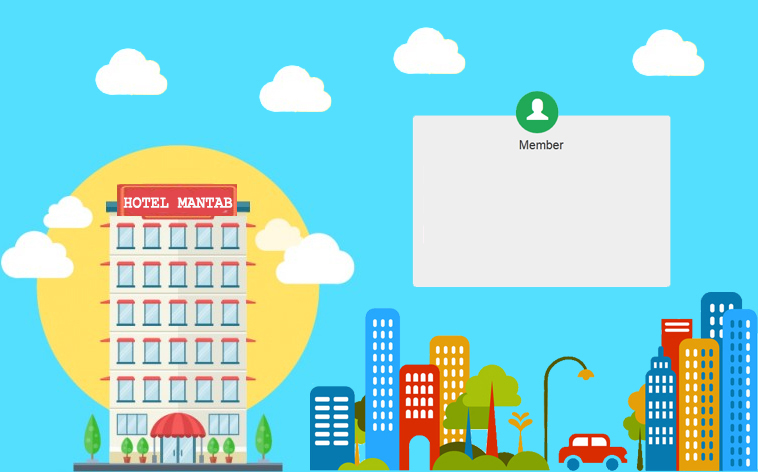
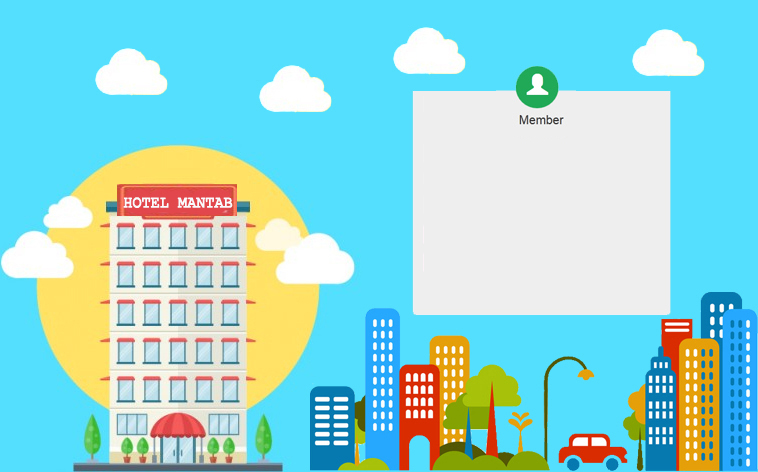
penambahan lama bermalam di check in

Changed region(s): [[0.5462, 0.1186, 0.9103, 0.3263], [0.5462, 0.5932, 0.9103, 0.6822]]

diff --git a/Hotel_FinalProject/src/Hotel/panel_new.java b/Hotel_FinalProject/src/Hotel/panel_new.java
@@ -33,6 +33,9 @@ public class panel_new extends javax.swing.JFrame {
     private void initComponents() {
         java.awt.GridBagConstraints gridBagConstraints;
 
+        jLabel2_hari = new javax.swing.JLabel();
+        textfield_lama_menginap_in = new javax.swing.JTextField();
+        label_lamabermalam = new javax.swing.JLabel();
         label_nama = new javax.swing.JLabel();
         label_nik = new javax.swing.JLabel();
         label_tempat_lahir = new javax.swing.JLabel();
@@ -52,11 +55,38 @@ public class panel_new extends javax.swing.JFrame {
 
         getContentPane().setLayout(new java.awt.GridBagLayout());
 
+        jLabel2_hari.setText("Hari");
+        gridBagConstraints = new java.awt.GridBagConstraints();
+        gridBagConstraints.gridx = 6;
+        gridBagConstraints.gridy = 10;
+        gridBagConstraints.gridwidth = 3;
+        gridBagConstraints.ipadx = 11;
+        gridBagConstraints.ipady = 6;
+        gridBagConstraints.anchor = java.awt.GridBagConstraints.NORTHWEST;
+        gridBagConstraints.insets = new java.awt.Insets(6, 10, 0, 0);
+        getContentPane().add(jLabel2_hari, gridBagConstraints);
+        gridBagConstraints = new java.awt.GridBagConstraints();
+        gridBagConstraints.gridx = 5;
+        gridBagConstraints.gridy = 10;
+        gridBagConstraints.ipadx = 34;
+        gridBagConstraints.anchor = java.awt.GridBagConstraints.NORTHWEST;
+        gridBagConstraints.insets = new java.awt.Insets(6, 30, 0, 0);
+        getContentPane().add(textfield_lama_menginap_in, gridBagConstraints);
+
+        label_lamabermalam.setText("Lama Bermalam");
+        gridBagConstraints = new java.awt.GridBagConstraints();
+        gridBagConstraints.gridx = 5;
+        gridBagConstraints.gridy = 9;
+        gridBagConstraints.gridwidth = 2;
+        gridBagConstraints.anchor = java.awt.GridBagConstraints.NORTHWEST;
+        gridBagConstraints.insets = new java.awt.Insets(10, 30, 0, 0);
+        getContentPane().add(label_lamabermalam, gridBagConstraints);
+
         label_nama.setText("Nama");
         gridBagConstraints = new java.awt.GridBagConstraints();
         gridBagConstraints.gridx = 0;
         gridBagConstraints.gridy = 1;
-        gridBagConstraints.gridwidth = 25;
+        gridBagConstraints.gridwidth = 45;
         gridBagConstraints.ipadx = 713;
         gridBagConstraints.anchor = java.awt.GridBagConstraints.NORTHWEST;
         gridBagConstraints.insets = new java.awt.Insets(17, 140, 0, 0);
@@ -66,7 +96,7 @@ public class panel_new extends javax.swing.JFrame {
         gridBagConstraints = new java.awt.GridBagConstraints();
         gridBagConstraints.gridx = 0;
         gridBagConstraints.gridy = 3;
-        gridBagConstraints.gridwidth = 6;
+        gridBagConstraints.gridwidth = 10;
         gridBagConstraints.ipadx = 601;
         gridBagConstraints.anchor = java.awt.GridBagConstraints.NORTHWEST;
         gridBagConstraints.insets = new java.awt.Insets(20, 140, 0, 0);
@@ -76,7 +106,7 @@ public class panel_new extends javax.swing.JFrame {
         gridBagConstraints = new java.awt.GridBagConstraints();
         gridBagConstraints.gridx = 0;
         gridBagConstraints.gridy = 5;
-        gridBagConstraints.gridwidth = 13;
+        gridBagConstraints.gridwidth = 25;
         gridBagConstraints.ipadx = 601;
         gridBagConstraints.anchor = java.awt.GridBagConstraints.NORTHWEST;
         gridBagConstraints.insets = new java.awt.Insets(10, 140, 0, 0);
@@ -86,7 +116,7 @@ public class panel_new extends javax.swing.JFrame {
         gridBagConstraints = new java.awt.GridBagConstraints();
         gridBagConstraints.gridx = 0;
         gridBagConstraints.gridy = 7;
-        gridBagConstraints.gridwidth = 18;
+        gridBagConstraints.gridwidth = 34;
         gridBagConstraints.ipadx = 601;
         gridBagConstraints.anchor = java.awt.GridBagConstraints.NORTHWEST;
         gridBagConstraints.insets = new java.awt.Insets(10, 140, 0, 0);
@@ -124,7 +154,7 @@ public class panel_new extends javax.swing.JFrame {
         gridBagConstraints = new java.awt.GridBagConstraints();
         gridBagConstraints.gridx = 0;
         gridBagConstraints.gridy = 2;
-        gridBagConstraints.gridwidth = 25;
+        gridBagConstraints.gridwidth = 45;
         gridBagConstraints.ipadx = 734;
         gridBagConstraints.anchor = java.awt.GridBagConstraints.NORTHWEST;
         gridBagConstraints.insets = new java.awt.Insets(6, 140, 0, 0);
@@ -132,7 +162,7 @@ public class panel_new extends javax.swing.JFrame {
         gridBagConstraints = new java.awt.GridBagConstraints();
         gridBagConstraints.gridx = 0;
         gridBagConstraints.gridy = 4;
-        gridBagConstraints.gridwidth = 25;
+        gridBagConstraints.gridwidth = 45;
         gridBagConstraints.ipadx = 734;
         gridBagConstraints.anchor = java.awt.GridBagConstraints.NORTHWEST;
         gridBagConstraints.insets = new java.awt.Insets(6, 140, 0, 0);
@@ -146,7 +176,7 @@ public class panel_new extends javax.swing.JFrame {
         gridBagConstraints = new java.awt.GridBagConstraints();
         gridBagConstraints.gridx = 0;
         gridBagConstraints.gridy = 6;
-        gridBagConstraints.gridwidth = 25;
+        gridBagConstraints.gridwidth = 45;
         gridBagConstraints.ipadx = 734;
         gridBagConstraints.anchor = java.awt.GridBagConstraints.NORTHWEST;
         gridBagConstraints.insets = new java.awt.Insets(6, 140, 0, 0);
@@ -154,7 +184,7 @@ public class panel_new extends javax.swing.JFrame {
         gridBagConstraints = new java.awt.GridBagConstraints();
         gridBagConstraints.gridx = 0;
         gridBagConstraints.gridy = 8;
-        gridBagConstraints.gridwidth = 25;
+        gridBagConstraints.gridwidth = 45;
         gridBagConstraints.ipadx = 734;
         gridBagConstraints.anchor = java.awt.GridBagConstraints.NORTHWEST;
         gridBagConstraints.insets = new java.awt.Insets(6, 140, 0, 0);
@@ -167,12 +197,12 @@ public class panel_new extends javax.swing.JFrame {
             }
         });
         gridBagConstraints = new java.awt.GridBagConstraints();
-        gridBagConstraints.gridx = 5;
+        gridBagConstraints.gridx = 9;
         gridBagConstraints.gridy = 11;
-        gridBagConstraints.gridwidth = 19;
+        gridBagConstraints.gridwidth = 35;
         gridBagConstraints.ipadx = 85;
         gridBagConstraints.anchor = java.awt.GridBagConstraints.NORTHWEST;
-        gridBagConstraints.insets = new java.awt.Insets(60, 270, 0, 0);
+        gridBagConstraints.insets = new java.awt.Insets(60, 160, 0, 0);
         getContentPane().add(button_submit, gridBagConstraints);
 
         jLabel1.setFont(new java.awt.Font("Sylfaen", 0, 24)); // NOI18N
@@ -181,7 +211,7 @@ public class panel_new extends javax.swing.JFrame {
         gridBagConstraints = new java.awt.GridBagConstraints();
         gridBagConstraints.gridx = 0;
         gridBagConstraints.gridy = 0;
-        gridBagConstraints.gridwidth = 9;
+        gridBagConstraints.gridwidth = 17;
         gridBagConstraints.ipadx = 201;
         gridBagConstraints.anchor = java.awt.GridBagConstraints.NORTHWEST;
         gridBagConstraints.insets = new java.awt.Insets(30, 200, 0, 0);
@@ -224,7 +254,7 @@ public class panel_new extends javax.swing.JFrame {
         gridBagConstraints = new java.awt.GridBagConstraints();
         gridBagConstraints.gridx = 0;
         gridBagConstraints.gridy = 0;
-        gridBagConstraints.gridwidth = 26;
+        gridBagConstraints.gridwidth = 46;
         gridBagConstraints.gridheight = 13;
         gridBagConstraints.ipady = -2;
         gridBagConstraints.anchor = java.awt.GridBagConstraints.NORTHWEST;
@@ -342,12 +372,15 @@ public class panel_new extends javax.swing.JFrame {
     private javax.swing.JButton button_cancel;
     private javax.swing.JButton button_submit;
     private javax.swing.JLabel jLabel1;
+    private javax.swing.JLabel jLabel2_hari;
+    private javax.swing.JLabel label_lamabermalam;
     private javax.swing.JLabel label_nama;
     private javax.swing.JLabel label_nik;
     private javax.swing.JLabel label_no_kamar;
     private javax.swing.JLabel label_pilih_jenis_kamar;
     private javax.swing.JLabel label_tanggal_lahir;
     private javax.swing.JLabel label_tempat_lahir;
+    private javax.swing.JTextField textfield_lama_menginap_in;
     private javax.swing.JTextField textfield_nama;
     private javax.swing.JTextField textfield_nik;
     private javax.swing.JTextField textfield_no_kamar;

diff --git a/Hotel_FinalProject/src/Hotel/panel_member.java b/Hotel_FinalProject/src/Hotel/panel_member.java
@@ -28,7 +28,9 @@ public class panel_member extends javax.swing.JFrame {
     private void initComponents() {
         java.awt.GridBagConstraints gridBagConstraints;
 
+        jLabel2_hari = new javax.swing.JLabel();
         ComboBox_pilihkamar = new javax.swing.JComboBox();
+        textfield_lama_menginap_in = new javax.swing.JTextField();
         textfield_no_kamar = new javax.swing.JTextField();
         label_no_kamar = new javax.swing.JLabel();
         label_pilih_jenis_kamar = new javax.swing.JLabel();
@@ -36,9 +38,21 @@ public class panel_member extends javax.swing.JFrame {
         textfield_id = new javax.swing.JTextField();
         button_submit_member = new javax.swing.JButton();
         button_cancel_member = new javax.swing.JButton();
+        label_lamabermalam = new javax.swing.JLabel();
         background = new javax.swing.JLabel();
 
         getContentPane().setLayout(new java.awt.GridBagLayout());
+
+        jLabel2_hari.setText("Hari");
+        gridBagConstraints = new java.awt.GridBagConstraints();
+        gridBagConstraints.gridx = 9;
+        gridBagConstraints.gridy = 5;
+        gridBagConstraints.gridwidth = 17;
+        gridBagConstraints.ipadx = 11;
+        gridBagConstraints.ipady = 6;
+        gridBagConstraints.anchor = java.awt.GridBagConstraints.NORTHWEST;
+        gridBagConstraints.insets = new java.awt.Insets(6, 10, 0, 0);
+        getContentPane().add(jLabel2_hari, gridBagConstraints);
 
         ComboBox_pilihkamar.setModel(new javax.swing.DefaultComboBoxModel(new String[] {"VIP", "Suite", "Premium", "Reguler" }));
         ComboBox_pilihkamar.addActionListener(new java.awt.event.ActionListener() {
@@ -49,33 +63,42 @@ public class panel_member extends javax.swing.JFrame {
         gridBagConstraints = new java.awt.GridBagConstraints();
         gridBagConstraints.gridx = 0;
         gridBagConstraints.gridy = 3;
-        gridBagConstraints.gridwidth = 3;
-        gridBagConstraints.ipadx = 62;
+        gridBagConstraints.gridwidth = 10;
+        gridBagConstraints.ipadx = 132;
         gridBagConstraints.anchor = java.awt.GridBagConstraints.NORTHWEST;
         gridBagConstraints.insets = new java.awt.Insets(6, 430, 0, 0);
         getContentPane().add(ComboBox_pilihkamar, gridBagConstraints);
         gridBagConstraints = new java.awt.GridBagConstraints();
-        gridBagConstraints.gridx = 4;
-        gridBagConstraints.gridy = 3;
+        gridBagConstraints.gridx = 3;
+        gridBagConstraints.gridy = 5;
+        gridBagConstraints.gridwidth = 5;
+        gridBagConstraints.ipadx = 34;
+        gridBagConstraints.anchor = java.awt.GridBagConstraints.NORTHWEST;
+        gridBagConstraints.insets = new java.awt.Insets(6, 27, 0, 0);
+        getContentPane().add(textfield_lama_menginap_in, gridBagConstraints);
+        gridBagConstraints = new java.awt.GridBagConstraints();
+        gridBagConstraints.gridx = 0;
+        gridBagConstraints.gridy = 5;
         gridBagConstraints.gridwidth = 2;
         gridBagConstraints.ipadx = 64;
         gridBagConstraints.anchor = java.awt.GridBagConstraints.NORTHWEST;
-        gridBagConstraints.insets = new java.awt.Insets(6, 10, 0, 0);
+        gridBagConstraints.insets = new java.awt.Insets(6, 430, 0, 0);
         getContentPane().add(textfield_no_kamar, gridBagConstraints);
 
         label_no_kamar.setText("No Kamar");
         gridBagConstraints = new java.awt.GridBagConstraints();
-        gridBagConstraints.gridx = 4;
-        gridBagConstraints.gridy = 2;
+        gridBagConstraints.gridx = 0;
+        gridBagConstraints.gridy = 4;
         gridBagConstraints.ipadx = 14;
         gridBagConstraints.anchor = java.awt.GridBagConstraints.NORTHWEST;
-        gridBagConstraints.insets = new java.awt.Insets(0, 10, 0, 0);
+        gridBagConstraints.insets = new java.awt.Insets(0, 430, 0, 0);
         getContentPane().add(label_no_kamar, gridBagConstraints);
 
         label_pilih_jenis_kamar.setText("Jenis Kamar ");
         gridBagConstraints = new java.awt.GridBagConstraints();
         gridBagConstraints.gridx = 0;
         gridBagConstraints.gridy = 2;
+        gridBagConstraints.gridwidth = 2;
         gridBagConstraints.ipadx = 10;
         gridBagConstraints.anchor = java.awt.GridBagConstraints.NORTHWEST;
         gridBagConstraints.insets = new java.awt.Insets(0, 430, 0, 0);
@@ -88,12 +111,12 @@ public class panel_member extends javax.swing.JFrame {
         gridBagConstraints.gridwidth = 4;
         gridBagConstraints.ipadx = 14;
         gridBagConstraints.anchor = java.awt.GridBagConstraints.NORTHWEST;
-        gridBagConstraints.insets = new java.awt.Insets(150, 430, 0, 0);
+        gridBagConstraints.insets = new java.awt.Insets(130, 430, 0, 0);
         getContentPane().add(label_id_member, gridBagConstraints);
         gridBagConstraints = new java.awt.GridBagConstraints();
         gridBagConstraints.gridx = 0;
         gridBagConstraints.gridy = 1;
-        gridBagConstraints.gridwidth = 8;
+        gridBagConstraints.gridwidth = 28;
         gridBagConstraints.ipadx = 214;
         gridBagConstraints.anchor = java.awt.GridBagConstraints.NORTHWEST;
         gridBagConstraints.insets = new java.awt.Insets(6, 430, 0, 0);
@@ -101,9 +124,9 @@ public class panel_member extends javax.swing.JFrame {
 
         button_submit_member.setText("Submit");
         gridBagConstraints = new java.awt.GridBagConstraints();
-        gridBagConstraints.gridx = 4;
-        gridBagConstraints.gridy = 4;
-        gridBagConstraints.gridwidth = 3;
+        gridBagConstraints.gridx = 7;
+        gridBagConstraints.gridy = 6;
+        gridBagConstraints.gridwidth = 20;
         gridBagConstraints.ipadx = 8;
         gridBagConstraints.ipady = -3;
         gridBagConstraints.anchor = java.awt.GridBagConstraints.NORTHWEST;
@@ -113,20 +136,29 @@ public class panel_member extends javax.swing.JFrame {
         button_cancel_member.setText("Cancel");
         gridBagConstraints = new java.awt.GridBagConstraints();
         gridBagConstraints.gridx = 0;
-        gridBagConstraints.gridy = 4;
-        gridBagConstraints.gridwidth = 2;
+        gridBagConstraints.gridy = 6;
+        gridBagConstraints.gridwidth = 3;
         gridBagConstraints.ipadx = 8;
         gridBagConstraints.ipady = -3;
         gridBagConstraints.anchor = java.awt.GridBagConstraints.NORTHWEST;
         gridBagConstraints.insets = new java.awt.Insets(10, 430, 0, 0);
         getContentPane().add(button_cancel_member, gridBagConstraints);
 
+        label_lamabermalam.setText("Lama Bermalam");
+        gridBagConstraints = new java.awt.GridBagConstraints();
+        gridBagConstraints.gridx = 3;
+        gridBagConstraints.gridy = 4;
+        gridBagConstraints.gridwidth = 16;
+        gridBagConstraints.anchor = java.awt.GridBagConstraints.NORTHWEST;
+        gridBagConstraints.insets = new java.awt.Insets(0, 27, 0, 0);
+        getContentPane().add(label_lamabermalam, gridBagConstraints);
+
         background.setIcon(new javax.swing.ImageIcon(getClass().getResource("/Hotel/Untitled-3.jpg"))); // NOI18N
         gridBagConstraints = new java.awt.GridBagConstraints();
         gridBagConstraints.gridx = 0;
         gridBagConstraints.gridy = 0;
-        gridBagConstraints.gridwidth = 9;
-        gridBagConstraints.gridheight = 6;
+        gridBagConstraints.gridwidth = 29;
+        gridBagConstraints.gridheight = 8;
         gridBagConstraints.anchor = java.awt.GridBagConstraints.NORTHWEST;
         getContentPane().add(background, gridBagConstraints);
 
@@ -177,10 +209,13 @@ public class panel_member extends javax.swing.JFrame {
     private javax.swing.JLabel background;
     private javax.swing.JButton button_cancel_member;
     private javax.swing.JButton button_submit_member;
+    private javax.swing.JLabel jLabel2_hari;
     private javax.swing.JLabel label_id_member;
+    private javax.swing.JLabel label_lamabermalam;
     private javax.swing.JLabel label_no_kamar;
     private javax.swing.JLabel label_pilih_jenis_kamar;
     private javax.swing.JTextField textfield_id;
+    private javax.swing.JTextField textfield_lama_menginap_in;
     private javax.swing.JTextField textfield_no_kamar;
     // End of variables declaration//GEN-END:variables
 }
